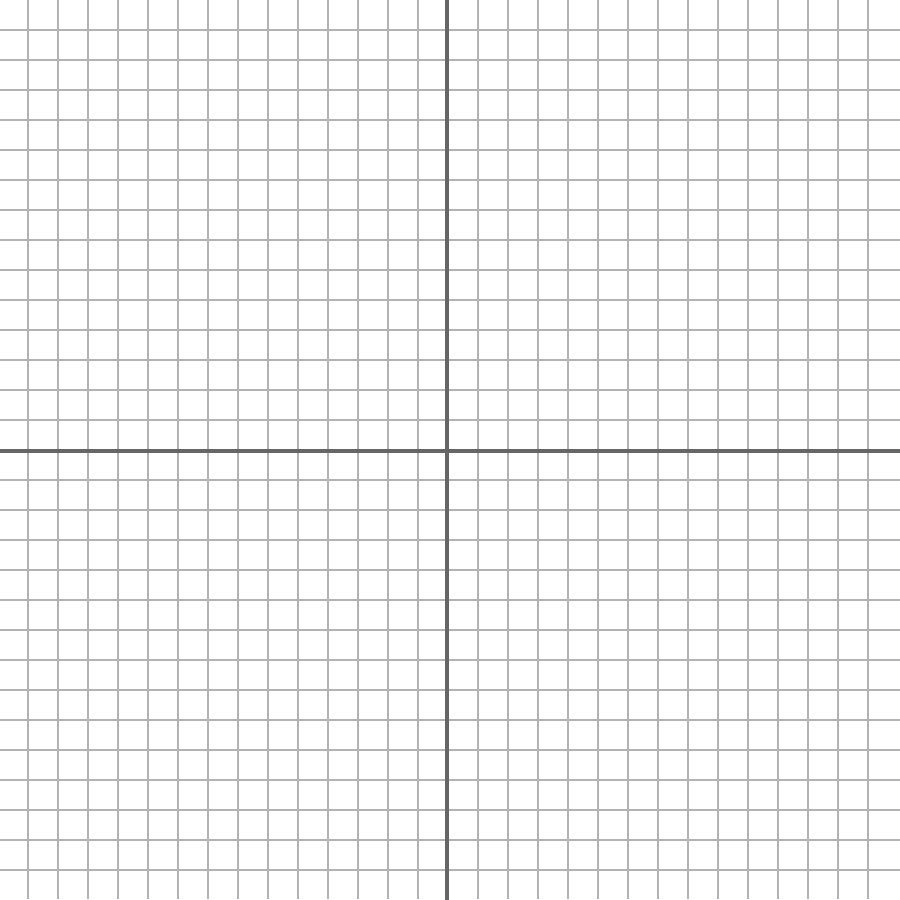
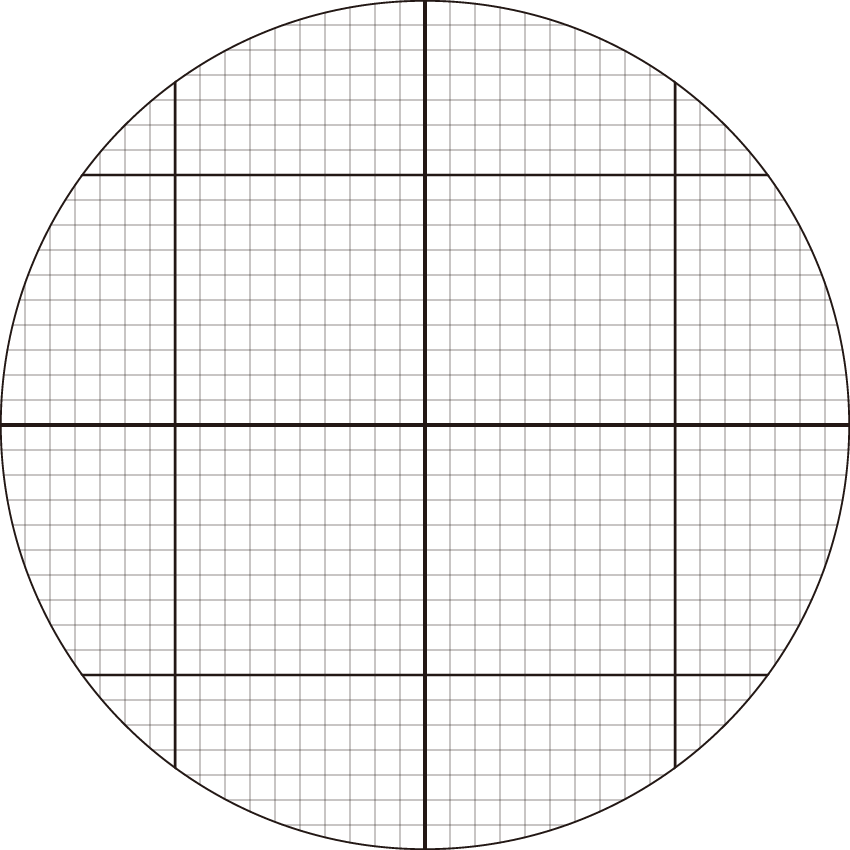
Bug Fix - Laser progress display, Laser Threshold display, Laser grid update to 17cm

Changed region(s): [[0.0, 0.0, 1.0, 1.0]]

diff --git a/public/sass/pages/_laser.scss b/public/sass/pages/_laser.scss
@@ -21,7 +21,7 @@
         font-weight: bold;
         height: 50px;
         letter-spacing: 2px;
-        top: -78px;
+        top: -94px;
         width: 200px;
         align-items: center;
         justify-content: center;
@@ -38,7 +38,7 @@
             content: " ";
             height: 0;
             left: 50%;
-            margin-left: -15px;
+            margin-left: -13px;
             pointer-events: none;
             position: absolute;
             top: 100%;
@@ -213,12 +213,11 @@
     .laser-object {
         @include absolute-center();
         background: url(/img/laser-platform.png);
-        background-size: 100% 100%;
-        border: 1px solid #767676;
-        height: 520px;
+        background-size: 100% 100%; 
+        height: 510px;
         overflow: hidden;
         position: absolute;
-        width: 520px;
+        width: 510px;
     }
 
     .laser-object {

diff --git a/public/css/main.css b/public/css/main.css
@@ -5606,7 +5606,7 @@ input.switch:checked ~ label:after {
     font-weight: bold;
     height: 50px;
     letter-spacing: 2px;
-    top: -78px;
+    top: -94px;
     width: 200px;
     align-items: center;
     justify-content: center; }
@@ -5620,7 +5620,7 @@ input.switch:checked ~ label:after {
         content: " ";
         height: 0;
         left: 50%;
-        margin-left: -15px;
+        margin-left: -13px;
         pointer-events: none;
         position: absolute;
         top: 100%;
@@ -5759,11 +5759,10 @@ input.switch:checked ~ label:after {
     top: 0;
     background: url(/img/laser-platform.png);
     background-size: 100% 100%;
-    border: 1px solid #767676;
-    height: 520px;
+    height: 510px;
     overflow: hidden;
     position: absolute;
-    width: 520px; }
+    width: 510px; }
 
 .laser-studio .laser-object .ft-container {
     z-index: 1; }

diff --git a/public/js/app/views/laser/Image-Panel.jsx b/public/js/app/views/laser/Image-Panel.jsx
@@ -102,7 +102,7 @@ define([
         },
 
         _renderThreshold: function(lang, props, state) {
-            var thresholdValue = (state.threshold || lang.laser.object_params.threshold.default),
+            var thresholdValue = (state.threshold || props.threshold || lang.laser.object_params.threshold.default),
                 thresholdDisplay = round(thresholdValue / lang.laser.advanced.form.power.max * 100, 0);
 
             return (

diff --git a/public/js/app/actions/laser.js b/public/js/app/actions/laser.js
@@ -624,7 +624,8 @@ define([
             handleLaser: function(settings) {
                 handleLaser(
                     settings,
-                    sendToMachine
+                    sendToMachine,
+                    ProgressConstants.STEPPING
                 );
             },
             sendToMachine: sendToMachine,
